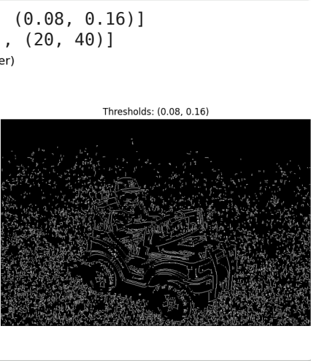
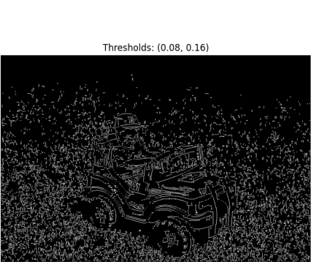
OCR-detect subplot titles and trim stray text from split images

diff --git a/convert.py b/convert.py
@@ -80,6 +80,55 @@ def _find_gap_columns(gray: np.ndarray) -> np.ndarray:
     return col_means > WHITE_THRESHOLD
 
 
+def _trim_content_rows(gray: np.ndarray) -> tuple[int, int]:
+    """Returns (y_start, y_end) of the main dark-content block inside a
+    cropped image slice. Used to trim stray title/OCR text that bleeds in
+    from above the figure."""
+    row_means = gray.mean(axis=1)
+    # Identify rows that are clearly "dark" (i.e. belong to the image proper).
+    dark = row_means < (WHITE_THRESHOLD - 60)
+    if not dark.any():
+        return 0, gray.shape[0]
+    ys = np.where(dark)[0]
+    return int(ys[0]), int(ys[-1]) + 1
+
+
+def _find_subplot_titles(img: Image.Image, segments: list[tuple[int, int]],
+                          horizontal: bool) -> list[str]:
+    """Best-effort: read the title text near the top of each subplot using
+    RapidOCR (already available via Docling). Falls back to 'Part N' if OCR
+    fails or returns no text."""
+    titles: list[str] = []
+    w, h = img.size
+    try:
+        from rapidocr import RapidOCR  # type: ignore
+        engine = RapidOCR()
+    except Exception:
+        return [f"Part {i + 1}" for i in range(len(segments))]
+
+    for i, (a0, a1) in enumerate(segments):
+        if horizontal:
+            crop = img.crop((a0, 0, a1, h))
+        else:
+            crop = img.crop((0, a0, w, a1))
+        cw, ch = crop.size
+        title_band = crop.crop((0, 0, cw, max(1, ch // 5)))
+        text = ""
+        try:
+            output = engine(title_band)
+            # RapidOCR returns a RapidOCROutput object with .txts (tuple).
+            txts = getattr(output, "txts", None) or []
+            text = " ".join(t.strip() for t in txts if t and t.strip())
+        except Exception:
+            text = ""
+        # Trim noise / overly long OCR output.
+        text = text.strip()
+        if len(text) > 80:
+            text = text[:80].rstrip() + "…"
+        titles.append(text or f"Part {i + 1}")
+    return titles
+
+
 def _segments_from_gap_mask(gap_mask: np.ndarray) -> list[tuple[int, int]]:
     """Extracts real content segments (start, end) from the gap mask,
     ignoring gaps narrower than MIN_GAP_WIDTH."""
@@ -106,7 +155,17 @@ def _segments_from_gap_mask(gap_mask: np.ndarray) -> list[tuple[int, int]]:
     return [(s, e) for s, e in segments if (e - s) >= MIN_SEGMENT_SIZE]
 
 
-def split_grid_image(image_path: Path) -> list[Path]:
+def split_grid_image(image_path: Path) -> list[tuple[Path, str]]:
+    """
+    Splits a combined grid image (e.g. 3 subplots side by side or stacked
+    vertically) into separate image files, if there is a clear whitespace gap
+    between the subplots.
+
+    Returns a list of (split_image_path, title) tuples. The title is the OCR'd
+    subplot title (e.g. "Thresholds: (0.03, 0.09)"), or "Part N" as fallback.
+    If splitting isn't possible (only 1 segment found in either direction),
+    returns the original image_path with an empty title wrapped in a tuple.
+    """
     """
     Splits a combined grid image (e.g. 3 subplots side by side or stacked
     vertically) into separate image files, if there is a clear whitespace gap
@@ -137,33 +196,76 @@ def split_grid_image(image_path: Path) -> list[Path]:
         horizontal = False
     else:
         # nothing worth splitting, keep the original image
-        return [image_path]
+        return [(image_path, "")]
 
-    split_paths = []
+    split_paths: list[tuple[Path, str]] = []
     stem = image_path.stem
     suffix = image_path.suffix
+
+    # Lazy import — only when we actually need to OCR titles.
+    try:
+        from rapidocr import RapidOCR  # type: ignore
+        engine = RapidOCR()
+    except Exception:
+        engine = None
 
     for idx, (a0, a1) in enumerate(segments, start=1):
         if horizontal:
             cropped = img.crop((a0, 0, a1, img.height))
         else:
             cropped = img.crop((0, a0, img.width, a1))
+
+        # Trim out any stray title/OCR text that bleeds into the part.
+        cropped_gray = np.array(cropped.convert("L"))
+        y0, y1 = _trim_content_rows(cropped_gray)
+        # Pad a little so titles inside the subplot aren't lopped off.
+        title_pad = max(1, int(cropped.height * 0.12))
+        y0_padded = max(0, y0 - title_pad)
+        if y1 - y0_padded > 20:
+            cropped = cropped.crop((0, y0_padded, cropped.width, y1))
+
+        # Add a small top margin to keep the subplot title visible.
+        cw, ch = cropped.size
+        top_pad = max(8, int(ch * 0.05))
+        bottom_pad = max(8, int(ch * 0.05))
+        if cw > 0 and ch > 0:
+            from PIL import ImageOps
+            cropped = ImageOps.expand(cropped, border=(0, top_pad, 0, bottom_pad), fill="white")
+
+        # OCR the title band on the *trimmed* crop so we read the subplot title,
+        # not the print-output/suptitle text that bled into the part.
+        title = f"Part {idx}"
+        if engine is not None:
+            cw2, ch2 = cropped.size
+            title_band = cropped.crop((0, 0, cw2, max(1, ch2 // 5)))
+            try:
+                output = engine(title_band)
+                txts = getattr(output, "txts", None) or []
+                text = " ".join(t.strip() for t in txts if t and t.strip())
+                text = text.strip()
+                if len(text) > 60:
+                    text = text[:60].rstrip() + "…"
+                if text:
+                    title = text
+            except Exception:
+                pass
+
         out_path = image_path.with_name(f"{stem}_part{idx}{suffix}")
         cropped.save(out_path)
-        split_paths.append(out_path)
+        split_paths.append((out_path, title))
 
     direction = "horizontally" if horizontal else "vertically"
     print(f"[split] {image_path.name} → split {direction} into {len(split_paths)} separate images")
     return split_paths
 
 
-def process_images_dir(images_dir: Path) -> dict[str, list[Path]]:
+def process_images_dir(images_dir: Path) -> dict[str, list[tuple[Path, str]]]:
     """Checks every image in images_dir, splits it if applicable, and returns
-    a mapping: original_image_filename -> [new split image paths]"""
+    a mapping: original_image_filename -> [(split_image_path, title), ...]"""
     if not images_dir.exists():
         return {}
 
-    mapping = {}
+    mapping: dict[str, list[tuple[Path, str]]] = {}
     for img_file in sorted(images_dir.glob("*")):
         if img_file.suffix.lower() not in (".png", ".jpg", ".jpeg"):
             continue
@@ -178,9 +280,10 @@ def process_images_dir(images_dir: Path) -> dict[str, list[Path]]:
 # STEP 3: Update the markdown file so split images are referenced on
 #         separate lines
 # --------------------------------------------------------------------------
-def update_markdown_with_splits(md_path: Path, split_mapping: dict[str, list[Path]]) -> None:
+def update_markdown_with_splits(md_path: Path, split_mapping: dict[str, list[tuple[Path, str]]]) -> None:
     """Reads the markdown file, and wherever the original combined image is
-    referenced, replaces that line with one markdown image line per split image."""
+    referenced, replaces that line with one markdown image line per split image,
+    labelled with the detected subplot title (or 'Part N')."""
     if not split_mapping:
         return
 
@@ -198,8 +301,9 @@ def update_markdown_with_splits(md_path: Path, split_mapping: dict[str, list[Pat
                     inside = line.split("(", 1)[1].rsplit(")", 1)[0]
                     if "/" in inside:
                         prefix = inside.rsplit("/", 1)[0] + "/"
-                for i, sp in enumerate(split_paths, start=1):
-                    new_lines.append(f"![Part {i}]({prefix}{sp.name})")
+                for i, (sp, title) in enumerate(split_paths, start=1):
+                    label = title or f"Part {i}"
+                    new_lines.append(f"![{label}]({prefix}{sp.name})")
                 replaced = True
                 break
         if not replaced:

diff --git a/output_md/dip1.md b/output_md/dip1.md
@@ -31,8 +31,8 @@ The Canny edge detection algorithm is applied using three distinct gradient filt
 ```
 GAUSSIAN_KSIZE = 5 SIGMA = 1.0 LOW_THRESHOLD = 30 HIGH_THRESHOLD = 90 sobel_edges = custom_canny(gray_image, 'sobel', GAUSSIAN_KSIZE, SIGMA, LOW_THRESHOLD, HIGH_TH prewitt_edges = custom_canny(gray_image, 'prewitt', GAUSSIAN_KSIZE, SIGMA, LOW_THRESHOLD, HIG roberts_edges = custom_canny(gray_image, 'roberts', GAUSSIAN_KSIZE, SIGMA, LOW_THRESHOLD, HIG plt.figure(figsize=(18, 6)) plt.subplot(1, 3, 1) plt.imshow(sobel_edges, cmap='gray') plt.title('Canny with Sobel Filter') plt.axis('off') plt.subplot(1, 3, 2) plt.imshow(prewitt_edges, cmap='gray') plt.title('Canny with Prewitt Filter')
 
-![Part 1](output_md/dip1_artifacts/image_000001_6b2a2aecf78dafd441f3adf18a857fa49a80e7232d98a4f09bda07851334f781_part1.png)
-![Part 2](output_md/dip1_artifacts/image_000001_6b2a2aecf78dafd441f3adf18a857fa49a80e7232d98a4f09bda07851334f781_part2.png)
+![pll.ax⊥s( u1 plt.subplot(1, 3, 3) plt.imshow(roberts_edges,…](output_md/dip1_artifacts/image_000001_6b2a2aecf78dafd441f3adf18a857fa49a80e7232d98a4f09bda07851334f781_part1.png)
+![( IanT」 SS0 omparison for Canny Edge Detect](output_md/dip1_artifacts/image_000001_6b2a2aecf78dafd441f3adf18a857fa49a80e7232d98a4f09bda07851334f781_part2.png)
 ![Part 3](output_md/dip1_artifacts/image_000001_6b2a2aecf78dafd441f3adf18a857fa49a80e7232d98a4f09bda07851334f781_part3.png)
 
 ## Comparison Summary of Gradient Filters:
@@ -58,9 +58,9 @@ BEST_FILTER = 'sobel' FIXED_SIGMA = 1.0
 ```
 FIXED_LOW_THRESHOLD = 30 FIXED_HIGH_THRESHOLD = 90 kernel_sizes = [3, 5, 7] edges_ksize_comparison = [] for ksize in kernel_sizes: edges = custom_canny(gray_image, BEST_FILTER, ksize, FIXED_SIGMA, FIXED_LOW_THRESHOLD, FI edges_ksize_comparison.append(edges) plt.figure(figsize=(18, 6)) for i, ksize in enumerate(kernel_sizes): plt.subplot(1, len(kernel_sizes), i + 1) plt.imshow(edges_ksize_comparison[i], cmap='gray') plt.title(f'Kernel Size: {ksize}x{ksize}') plt.axis('off') plt.suptitle('Canny Edge Detection: Gaussian Kernel Size Comparison (Sobel Filter)', fontsize plt.tight_layout(rect=[0, 0.03, 1, 0.95]) plt.show()
 
-![Part 1](output_md/dip1_artifacts/image_000002_88f56ae1b1c542bdc2f7dfcfa596deedff49ecb868129a11429e95b78d4f7b82_part1.png)
-![Part 2](output_md/dip1_artifacts/image_000002_88f56ae1b1c542bdc2f7dfcfa596deedff49ecb868129a11429e95b78d4f7b82_part2.png)
-![Part 3](output_md/dip1_artifacts/image_000002_88f56ae1b1c542bdc2f7dfcfa596deedff49ecb868129a11429e95b78d4f7b82_part3.png)
+![Kernel Size: 3x3](output_md/dip1_artifacts/image_000002_88f56ae1b1c542bdc2f7dfcfa596deedff49ecb868129a11429e95b78d4f7b82_part1.png)
+![Ige Detection: Gaussian Kernel Size Comparison (So](output_md/dip1_artifacts/image_000002_88f56ae1b1c542bdc2f7dfcfa596deedff49ecb868129a11429e95b78d4f7b82_part2.png)
+![Kernel Size: 7x7](output_md/dip1_artifacts/image_000002_88f56ae1b1c542bdc2f7dfcfa596deedff49ecb868129a11429e95b78d4f7b82_part3.png)
 
 ## Sigma Value Tuning 
 
@@ -69,9 +69,9 @@ The impact of the sigma value (standard deviation of the Gaussian blur) on edge 
 ```
 BEST_KSIZE_FOR_SIGMA_TUNING = 5 sigma_values = [0.5, 1.0, 1.5] edges_sigma_comparison = [] for sigma in sigma_values: edges = custom_canny(gray_image, BEST_FILTER, BEST_KSIZE_FOR_SIGMA_TUNING, sigma, FIXED_L edges_sigma_comparison.append(edges) plt.figure(figsize=(18, 6)) for i, sigma in enumerate(sigma_values): plt.subplot(1, len(sigma_values), i + 1) plt.imshow(edges_sigma_comparison[i], cmap='gray') plt.title(f'Sigma: {sigma}') plt.axis('off') plt.suptitle('Canny Edge Detection: Sigma Value Comparison (Sobel Filter)', fontsize=16) plt.tight_layout(rect=[0, 0.03, 1, 0.95])
 
-![Part 1](output_md/dip1_artifacts/image_000003_1b2f0ecbd658fe2501663cad87e9b1d7f5a468eff25ff8376c0c2ad447a07d1c_part1.png)
-![Part 2](output_md/dip1_artifacts/image_000003_1b2f0ecbd658fe2501663cad87e9b1d7f5a468eff25ff8376c0c2ad447a07d1c_part2.png)
-![Part 3](output_md/dip1_artifacts/image_000003_1b2f0ecbd658fe2501663cad87e9b1d7f5a468eff25ff8376c0c2ad447a07d1c_part3.png)
+![Sigma: 0.5](output_md/dip1_artifacts/image_000003_1b2f0ecbd658fe2501663cad87e9b1d7f5a468eff25ff8376c0c2ad447a07d1c_part1.png)
+![y Edge Detection: Sigma Value Comparison (Sobel F](output_md/dip1_artifacts/image_000003_1b2f0ecbd658fe2501663cad87e9b1d7f5a468eff25ff8376c0c2ad447a07d1c_part2.png)
+![Sigma: 1.5](output_md/dip1_artifacts/image_000003_1b2f0ecbd658fe2501663cad87e9b1d7f5a468eff25ff8376c0c2ad447a07d1c_part3.png)
 
 ## Threshold Pair Tuning 
 
@@ -80,9 +80,9 @@ This section explores the effect of varying low\_threshold and high\_threshold v
 ```
 BEST_KSIZE_FOR_THRESHOLD_TUNING = 5 BEST_SIGMA_FOR_THRESHOLD_TUNING = 1.0 threshold_pairs = [(0.03, 0.09), (0.05, 0.11), (0.08, 0.16)] edges_threshold_comparison = [] scaled_threshold_pairs = [] for low_t, high_t in threshold_pairs: scaled_low = int(low_t * 255) scaled_high = int(high_t * 255) scaled_threshold_pairs.append((scaled_low, scaled_high)) print(f"Original relative threshold pairs: {threshold_pairs}") print(f"Scaled absolute threshold pairs (low, high): {scaled_threshold_pairs}") for low_t, high_t in scaled_threshold_pairs: edges = custom_canny(gray_image, BEST_FILTER, BEST_KSIZE_FOR_THRESHOLD_TUNING, BEST_SIGMA edges_threshold_comparison.append(edges) plt.figure(figsize=(18, 6)) for i, (low_t_orig, high_t_orig) in enumerate(threshold_pairs): plt.subplot(1, len(threshold_pairs), i + 1) plt.imshow(edges_threshold_comparison[i], cmap='gray') plt.title(f'Thresholds: ({low_t_orig:.2f}, {high_t_orig:.2f})') plt.axis('off') plt.suptitle('Canny Edge Detection: Threshold Comparison (Sobel Filter)', fontsize=16) plt.tight_layout(rect=[0, 0.03, 1, 0.95]) plt.show()
 
-![Part 1](output_md/dip1_artifacts/image_000004_2e625d801c33b7155ee659cab4e48241db57b559175f46f7d5808fadbe992aa6_part1.png)
-![Part 2](output_md/dip1_artifacts/image_000004_2e625d801c33b7155ee659cab4e48241db57b559175f46f7d5808fadbe992aa6_part2.png)
-![Part 3](output_md/dip1_artifacts/image_000004_2e625d801c33b7155ee659cab4e48241db57b559175f46f7d5808fadbe992aa6_part3.png)
+![Driginal relative threshold pai Scaled absolute threshold pa…](output_md/dip1_artifacts/image_000004_2e625d801c33b7155ee659cab4e48241db57b559175f46f7d5808fadbe992aa6_part1.png)
+![S: 1(0.05, 0.09), (0.05, 0.11) (low, high): [(7, 22), (12, 2…](output_md/dip1_artifacts/image_000004_2e625d801c33b7155ee659cab4e48241db57b559175f46f7d5808fadbe992aa6_part2.png)
+![Thresholds: (0.08, 0.16)](output_md/dip1_artifacts/image_000004_2e625d801c33b7155ee659cab4e48241db57b559175f46f7d5808fadbe992aa6_part3.png)
 
 ## Final Optimized Edge Map 
 
